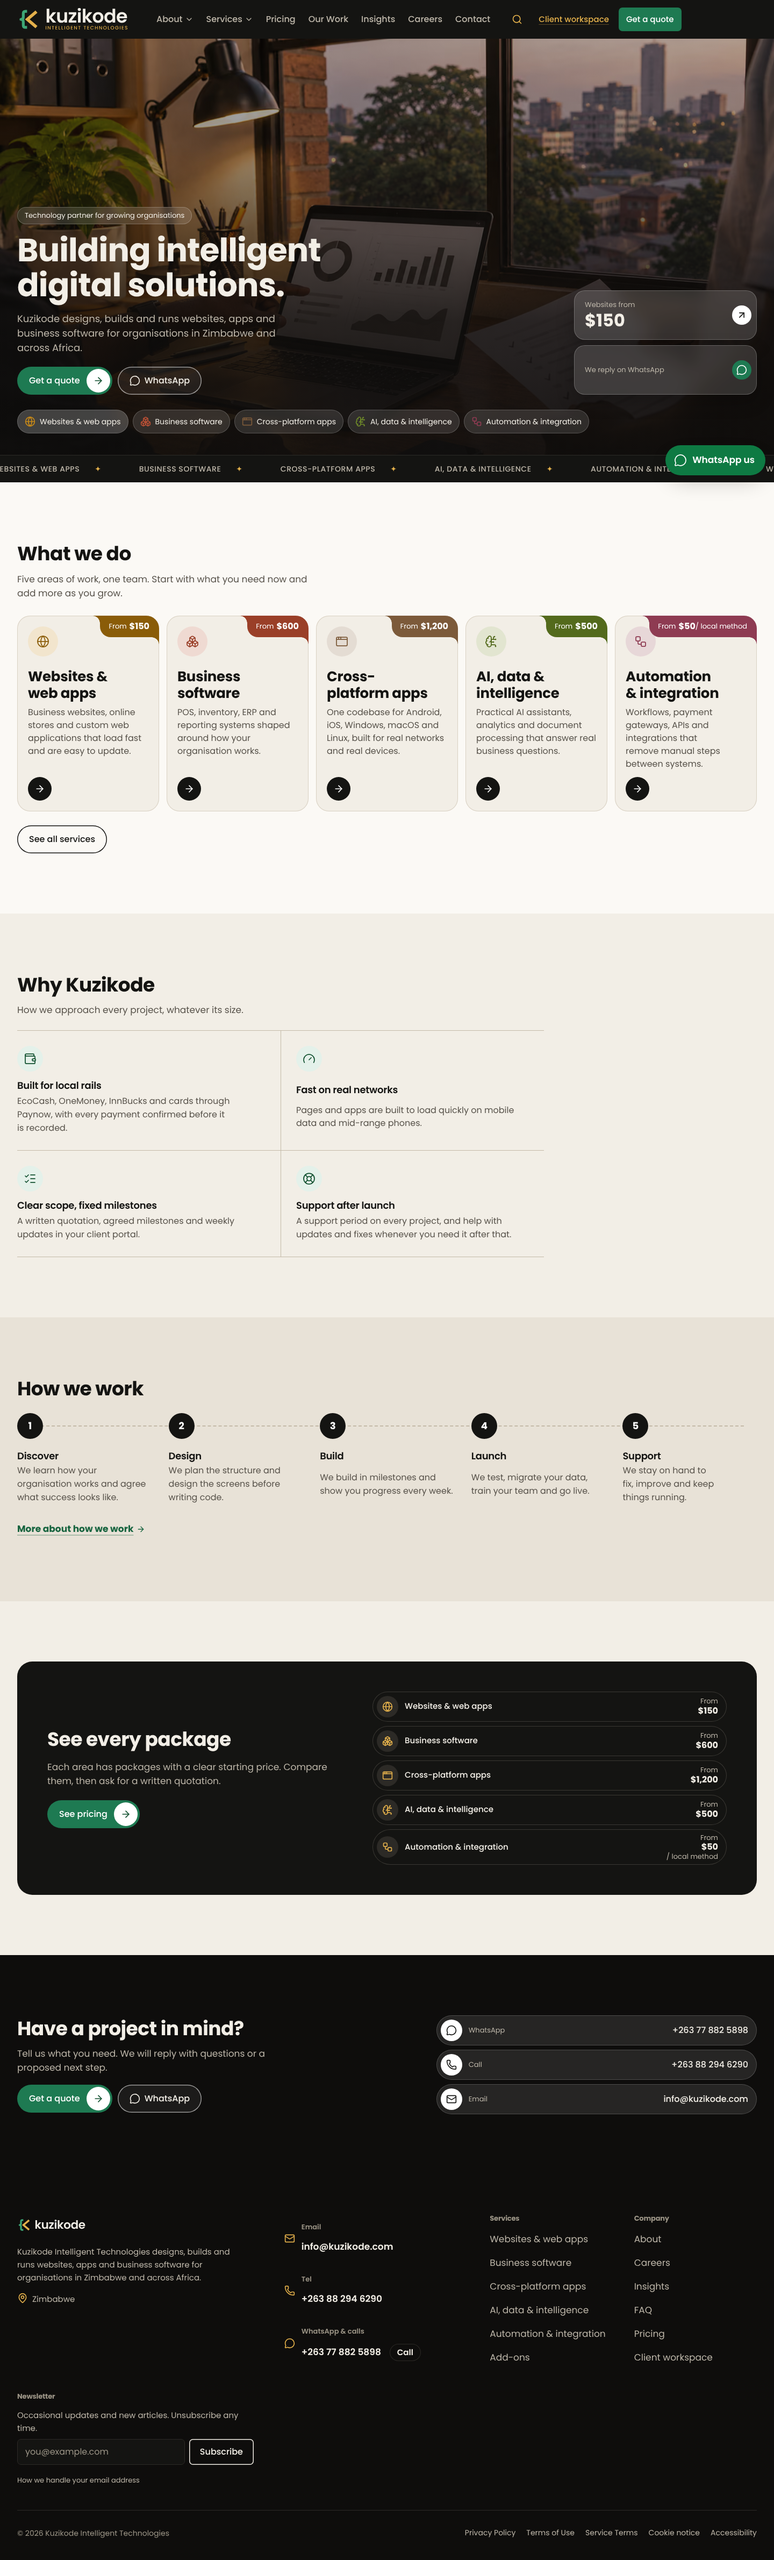
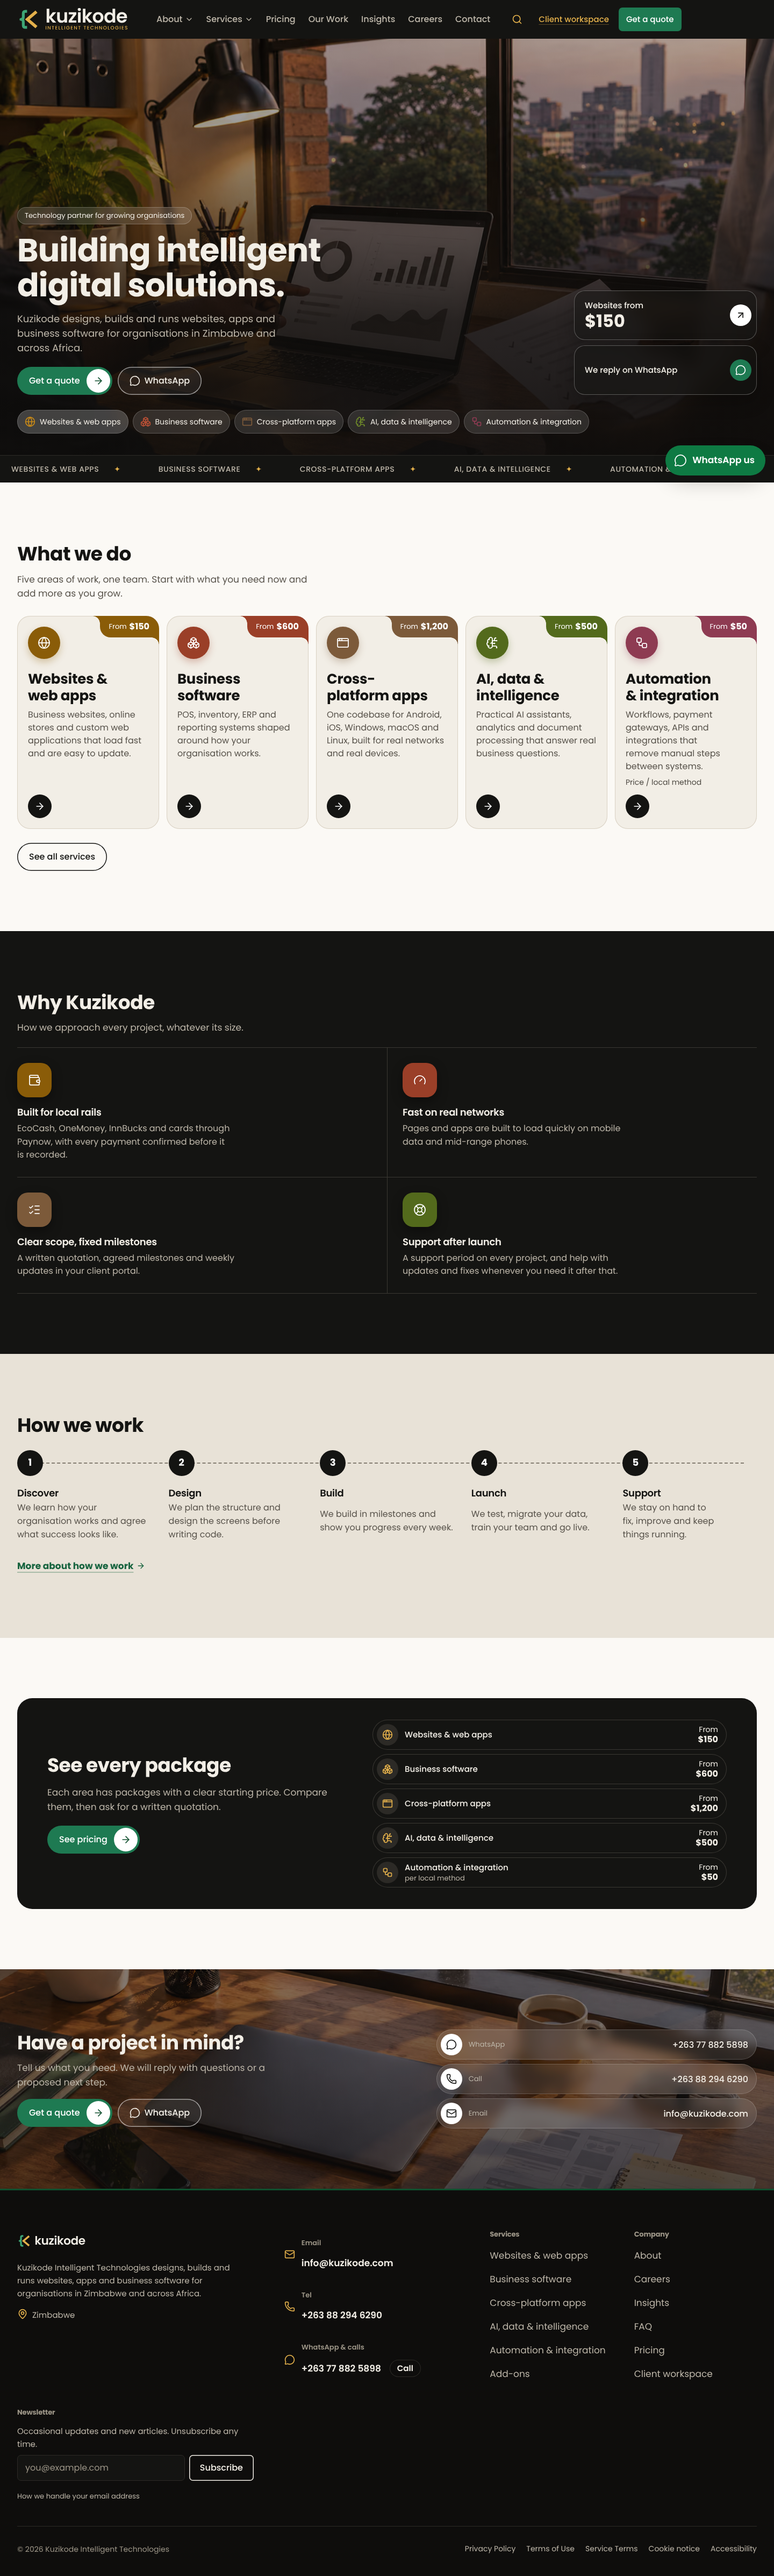
fix(home): review fixes (R10.3)
Claude-Session: https://claude.ai/code/session_01LWwAAXPmiCbgoR5VQJr94E

diff --git a/src/ui/tokens/home2.css b/src/ui/tokens/home2.css
@@ -200,6 +200,13 @@
   .hm-chips::-webkit-scrollbar {
     display: none;
   }
+  /* Scroll cue: the row fades out at the right edge while there is more to swipe to. */
+  @media (max-width: 1023px) {
+    .hm-chips {
+      -webkit-mask-image: linear-gradient(90deg, #000 calc(100% - 40px), transparent);
+      mask-image: linear-gradient(90deg, #000 calc(100% - 40px), transparent);
+    }
+  }
   .hm-chips a {
     display: inline-flex;
     align-items: center;
@@ -235,20 +242,21 @@
     justify-content: center;
     gap: 2px;
     min-height: 72px;
-    padding: 12px 52px 12px 14px;
+    padding: 12px 56px 12px 16px;
     border-radius: 20px;
-    background: rgb(255 255 255 / 0.14);
+    background: rgb(20 19 18 / 0.5);
     box-shadow:
-      inset 0 0 0 1px rgb(255 255 255 / 0.22),
+      inset 0 0 0 1px rgb(255 255 255 / 0.28),
       0 12px 32px rgb(0 0 0 / 0.25);
     backdrop-filter: blur(14px);
     color: var(--on-night);
     text-decoration: none;
   }
   .hm-glass__k {
-    font-size: 0.8125rem;
+    font-size: 0.9375rem;
     line-height: 1.3;
-    color: var(--on-night-2);
+    font-weight: 500;
+    color: var(--on-night);
   }
   .hm-glass__v {
     font-size: 1.5rem;
@@ -263,9 +271,9 @@
     top: 50%;
     display: grid;
     place-items: center;
-    width: 36px;
-    height: 36px;
-    margin-top: -18px;
+    width: 40px;
+    height: 40px;
+    margin-top: -20px;
     border-radius: 50%;
     background: #fff;
     color: var(--night-900);
@@ -338,7 +346,7 @@
   .hm-track {
     display: grid;
     grid-auto-flow: column;
-    grid-auto-columns: 82%;
+    grid-auto-columns: 80%;
     gap: 14px;
     overflow-x: auto;
     scroll-snap-type: x mandatory;
@@ -370,12 +378,18 @@
   .hm-card__icon {
     display: grid;
     place-items: center;
-    width: 56px;
-    height: 56px;
+    width: 60px;
+    height: 60px;
     margin-bottom: 14px;
     border-radius: 50%;
-    background: color-mix(in srgb, var(--kz-div) 18%, var(--paper));
-    color: var(--kz-div-ink);
+    background: var(--kz-div-ink);
+    color: #fff;
+    box-shadow: 0 6px 14px color-mix(in srgb, var(--kz-div-ink) 30%, transparent);
+  }
+  .hm-card__note {
+    font-size: 0.875rem;
+    line-height: 1.4;
+    color: var(--ink-700);
   }
   .hm-card__tab {
     position: absolute;
@@ -485,36 +499,46 @@
   }
 
   /* ---------- 4. Why ---------- */
+  .hm-why {
+    background: var(--night-900);
+    color: var(--on-night);
+  }
+  .hm-why .hm-h2 {
+    color: var(--on-night);
+  }
   .hm-why__grid {
     display: grid;
     grid-template-columns: minmax(0, 1fr);
-    border-top: 1px solid var(--bone-300);
+    border-top: 1px solid var(--night-600);
   }
   .hm-why__grid li {
     display: grid;
+    align-content: start;
     gap: 6px;
-    padding: 22px 0;
-    border-bottom: 1px solid var(--bone-300);
+    padding: 24px 0;
+    border-bottom: 1px solid var(--night-600);
   }
   .hm-why__icon {
     display: grid;
     place-items: center;
-    width: 48px;
-    height: 48px;
-    margin-bottom: 8px;
-    border-radius: 50%;
-    background: var(--emerald-50);
-    color: var(--emerald-700);
+    width: 64px;
+    height: 64px;
+    margin-bottom: 10px;
+    border-radius: 20px;
+    background: var(--kz-div-ink);
+    color: #fff;
+    box-shadow: 0 8px 20px rgb(0 0 0 / 0.35);
   }
   .hm-why__grid h3 {
     font-size: 1.125rem;
     line-height: 1.3;
     font-weight: 600;
+    color: var(--on-night);
   }
   .hm-why__grid p {
     font-size: 1rem;
     line-height: 1.55;
-    color: var(--ink-600);
+    color: var(--on-night-2);
     max-width: 44ch;
   }
 
@@ -531,9 +555,9 @@
     content: '';
     position: absolute;
     left: 23px;
-    top: 24px;
-    bottom: 24px;
-    border-left: 2px dashed var(--bone-300);
+    top: 48px;
+    bottom: 48px;
+    border-left: 2px dashed var(--ink-400);
   }
   .hm-steps li {
     position: relative;
@@ -576,6 +600,9 @@
   }
 
   /* ---------- 6. Pricing entry ---------- */
+  .hm-pe {
+    background: var(--paper);
+  }
   .hm-pe__band {
     display: grid;
     gap: 24px;
@@ -598,7 +625,7 @@
   }
   .hm-pe__rows li {
     display: grid;
-    grid-template-columns: 40px minmax(0, 1fr) auto;
+    grid-template-columns: 40px minmax(0, 1fr) 84px;
     align-items: center;
     gap: 12px;
     min-height: 56px;
@@ -620,10 +647,18 @@
     line-height: 1.25;
     font-weight: 500;
   }
-  .hm-pe__from {
+  .hm-pe__sub {
+    display: block;
+    margin-top: 2px;
     font-size: 0.8125rem;
     line-height: 1.2;
+    font-weight: 400;
     color: var(--on-night-2);
+  }
+  .hm-pe__from {
+    font-size: 0.875rem;
+    line-height: 1.2;
+    color: var(--on-night);
     text-align: right;
   }
   .hm-pe__from b {
@@ -639,12 +674,18 @@
     isolation: isolate;
     overflow: clip;
     background: var(--night-950);
+    border-bottom: 3px solid var(--emerald-700);
+  }
+  /* Hide the floating WhatsApp button while the closing band (which has its own contact rows) is in view. */
+  html[data-hm-close] [data-whatsapp] {
+    visibility: hidden;
+    opacity: 0;
   }
   .hm-close__shade {
     position: absolute;
     inset: 0;
     z-index: -1;
-    background: linear-gradient(180deg, rgb(14 13 12 / 0.7) 0%, rgb(14 13 12 / 0.9) 100%);
+    background: linear-gradient(180deg, rgb(14 13 12 / 0.5) 0%, rgb(14 13 12 / 0.72) 100%);
   }
   .hm-close__grid {
     display: grid;
@@ -715,7 +756,7 @@
     .hm-why__grid li:nth-child(even) {
       padding-left: 28px;
       padding-right: 0;
-      border-left: 1px solid var(--bone-300);
+      border-left: 1px solid var(--night-600);
     }
     .hm-pe__band {
       padding: 36px 32px;
@@ -777,7 +818,6 @@
     }
     .hm-why__grid {
       grid-template-columns: repeat(2, 1fr);
-      max-width: 980px;
     }
     .hm-steps {
       grid-template-columns: repeat(var(--steps), minmax(0, 1fr));
@@ -789,7 +829,7 @@
       top: 23px;
       bottom: auto;
       border-left: 0;
-      border-top: 2px dashed var(--bone-300);
+      border-top: 2px dashed var(--ink-400);
     }
     .hm-steps li {
       padding-left: 0;
@@ -802,7 +842,7 @@
       grid-template-columns: minmax(0, 5fr) minmax(0, 6fr);
       align-items: center;
       gap: 56px;
-      padding: 56px;
+      padding: 40px 56px;
     }
     .hm-close__grid {
       grid-template-columns: minmax(0, 6fr) minmax(0, 5fr);

diff --git a/tests/e2e/home.spec.ts b/tests/e2e/home.spec.ts
@@ -9,7 +9,7 @@ const DIVISIONS = [
   { slug: 'business-software', name: 'Business software', from: 'from $600' },
   { slug: 'cross-platform-apps', name: 'Cross-platform apps', from: 'from $1,200' },
   { slug: 'ai-data', name: 'AI, data & intelligence', from: 'from $500' },
-  { slug: 'automation-integration', name: 'Automation & integration', from: 'from $50 / local method' },
+  { slug: 'automation-integration', name: 'Automation & integration', from: 'from $50' },
 ];
 
 test.describe('home page (R10.3 rebuild)', () => {
